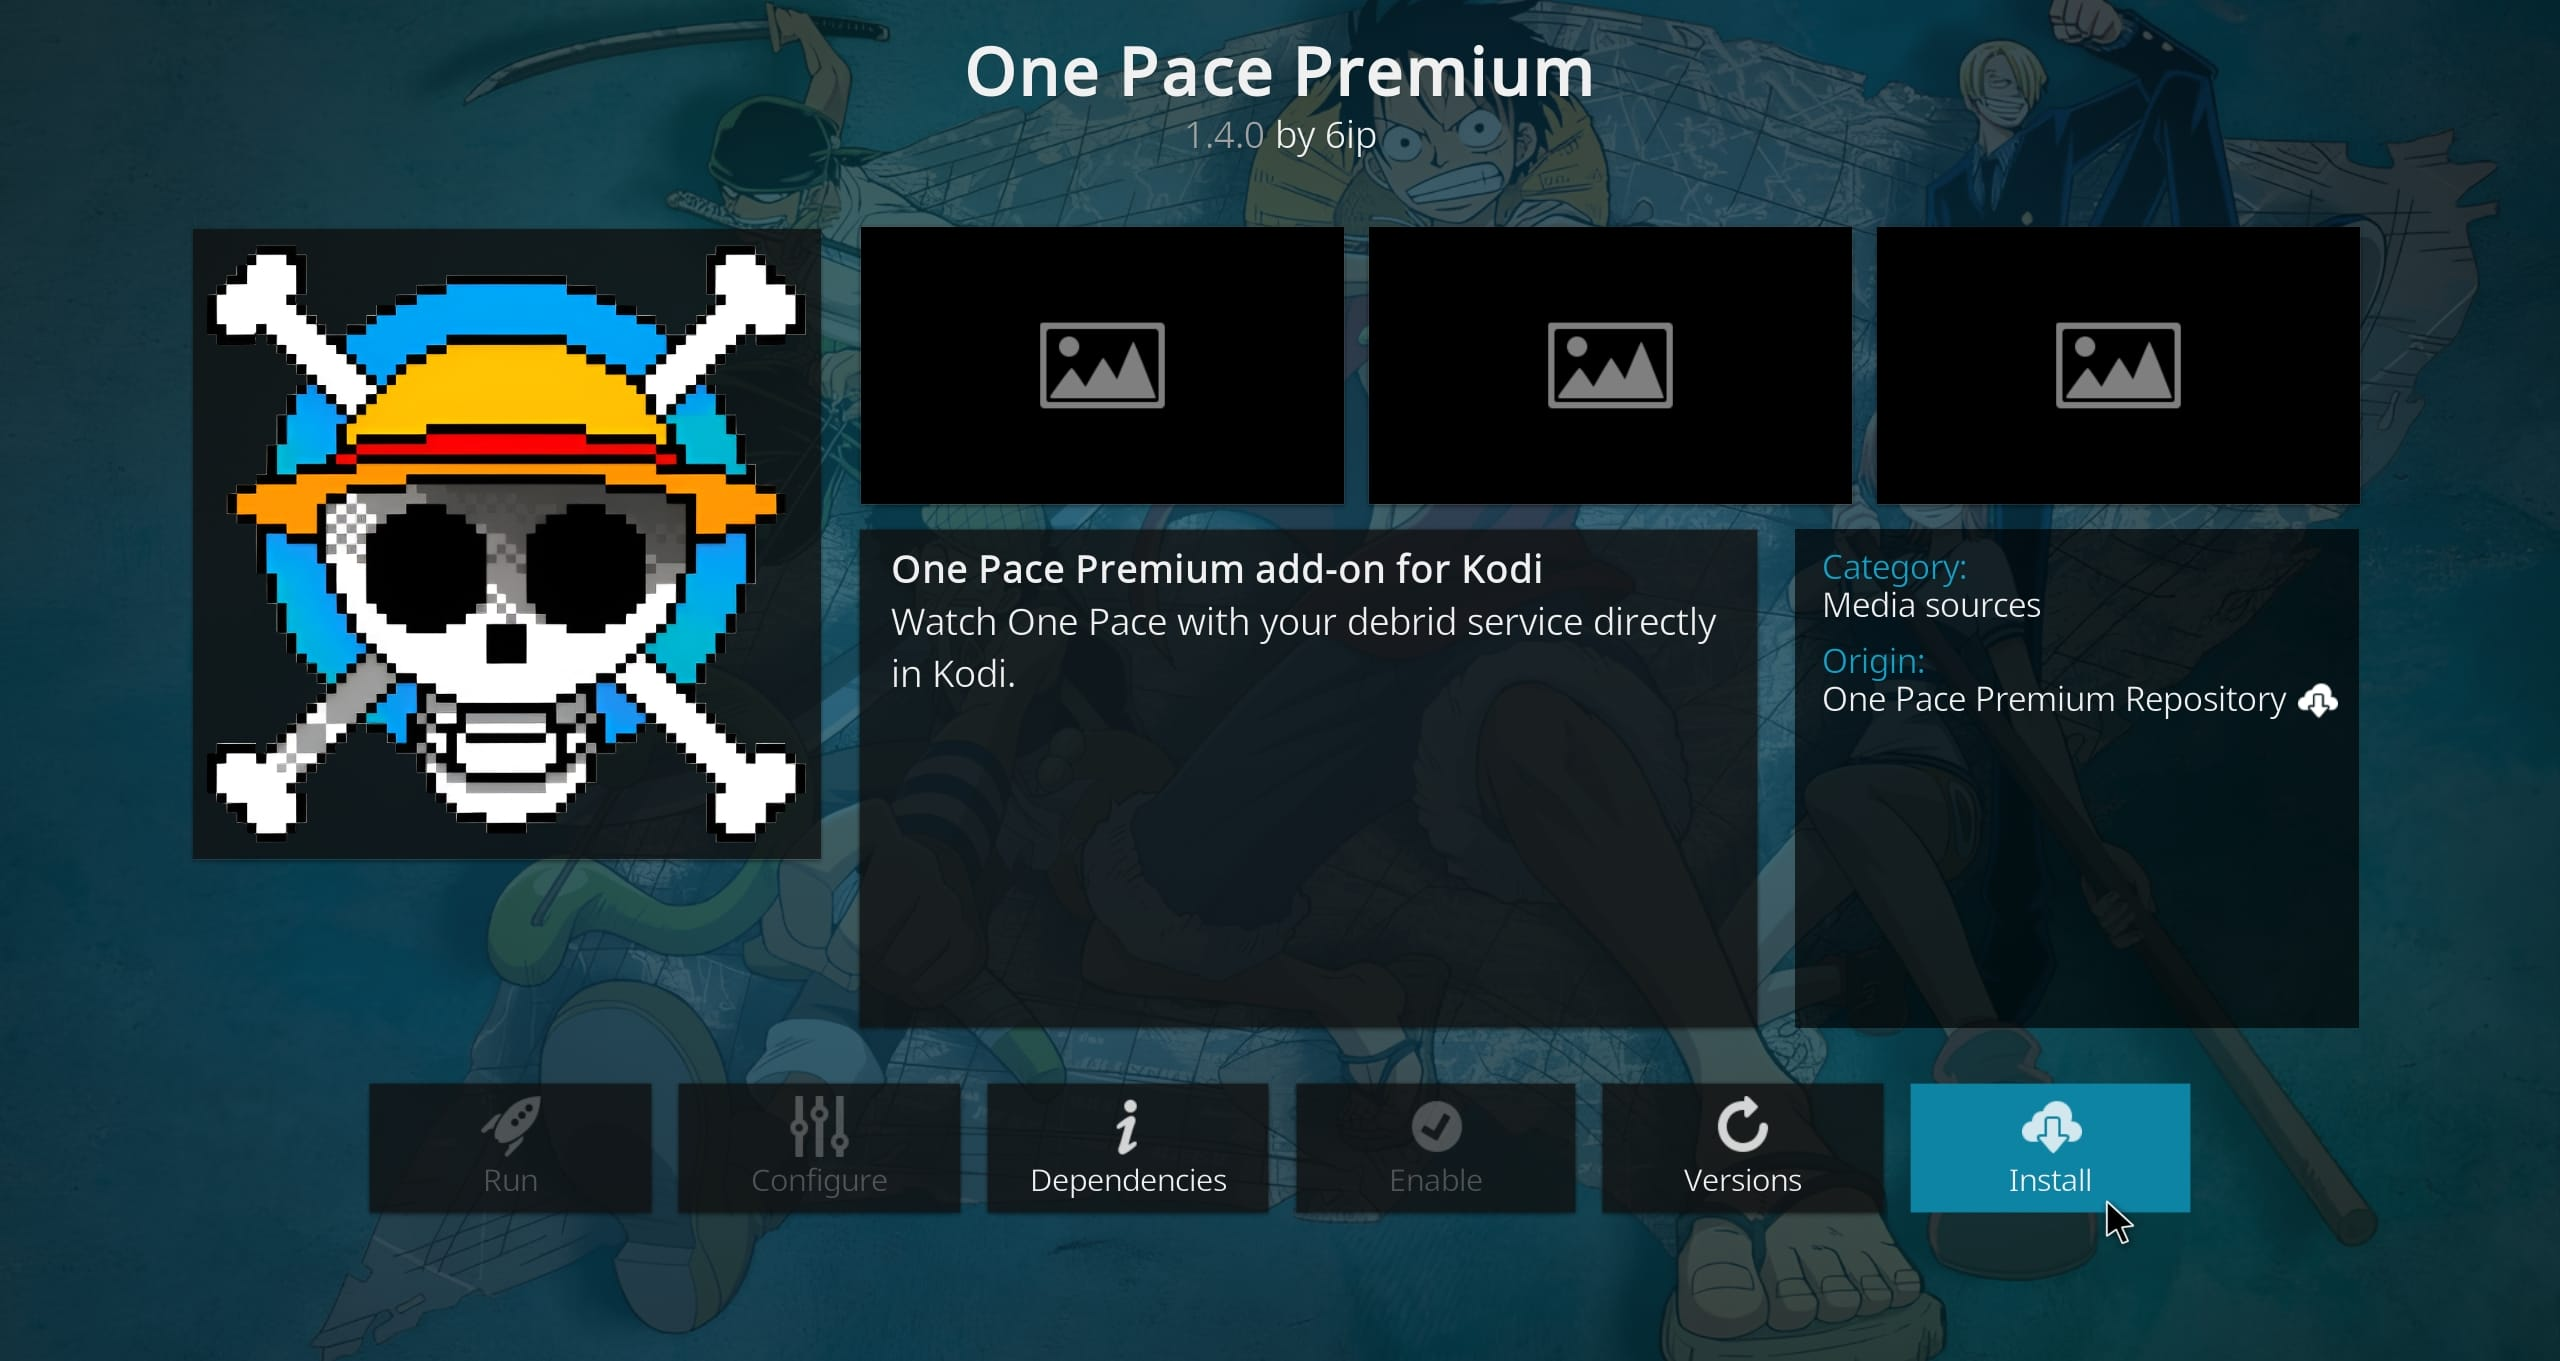
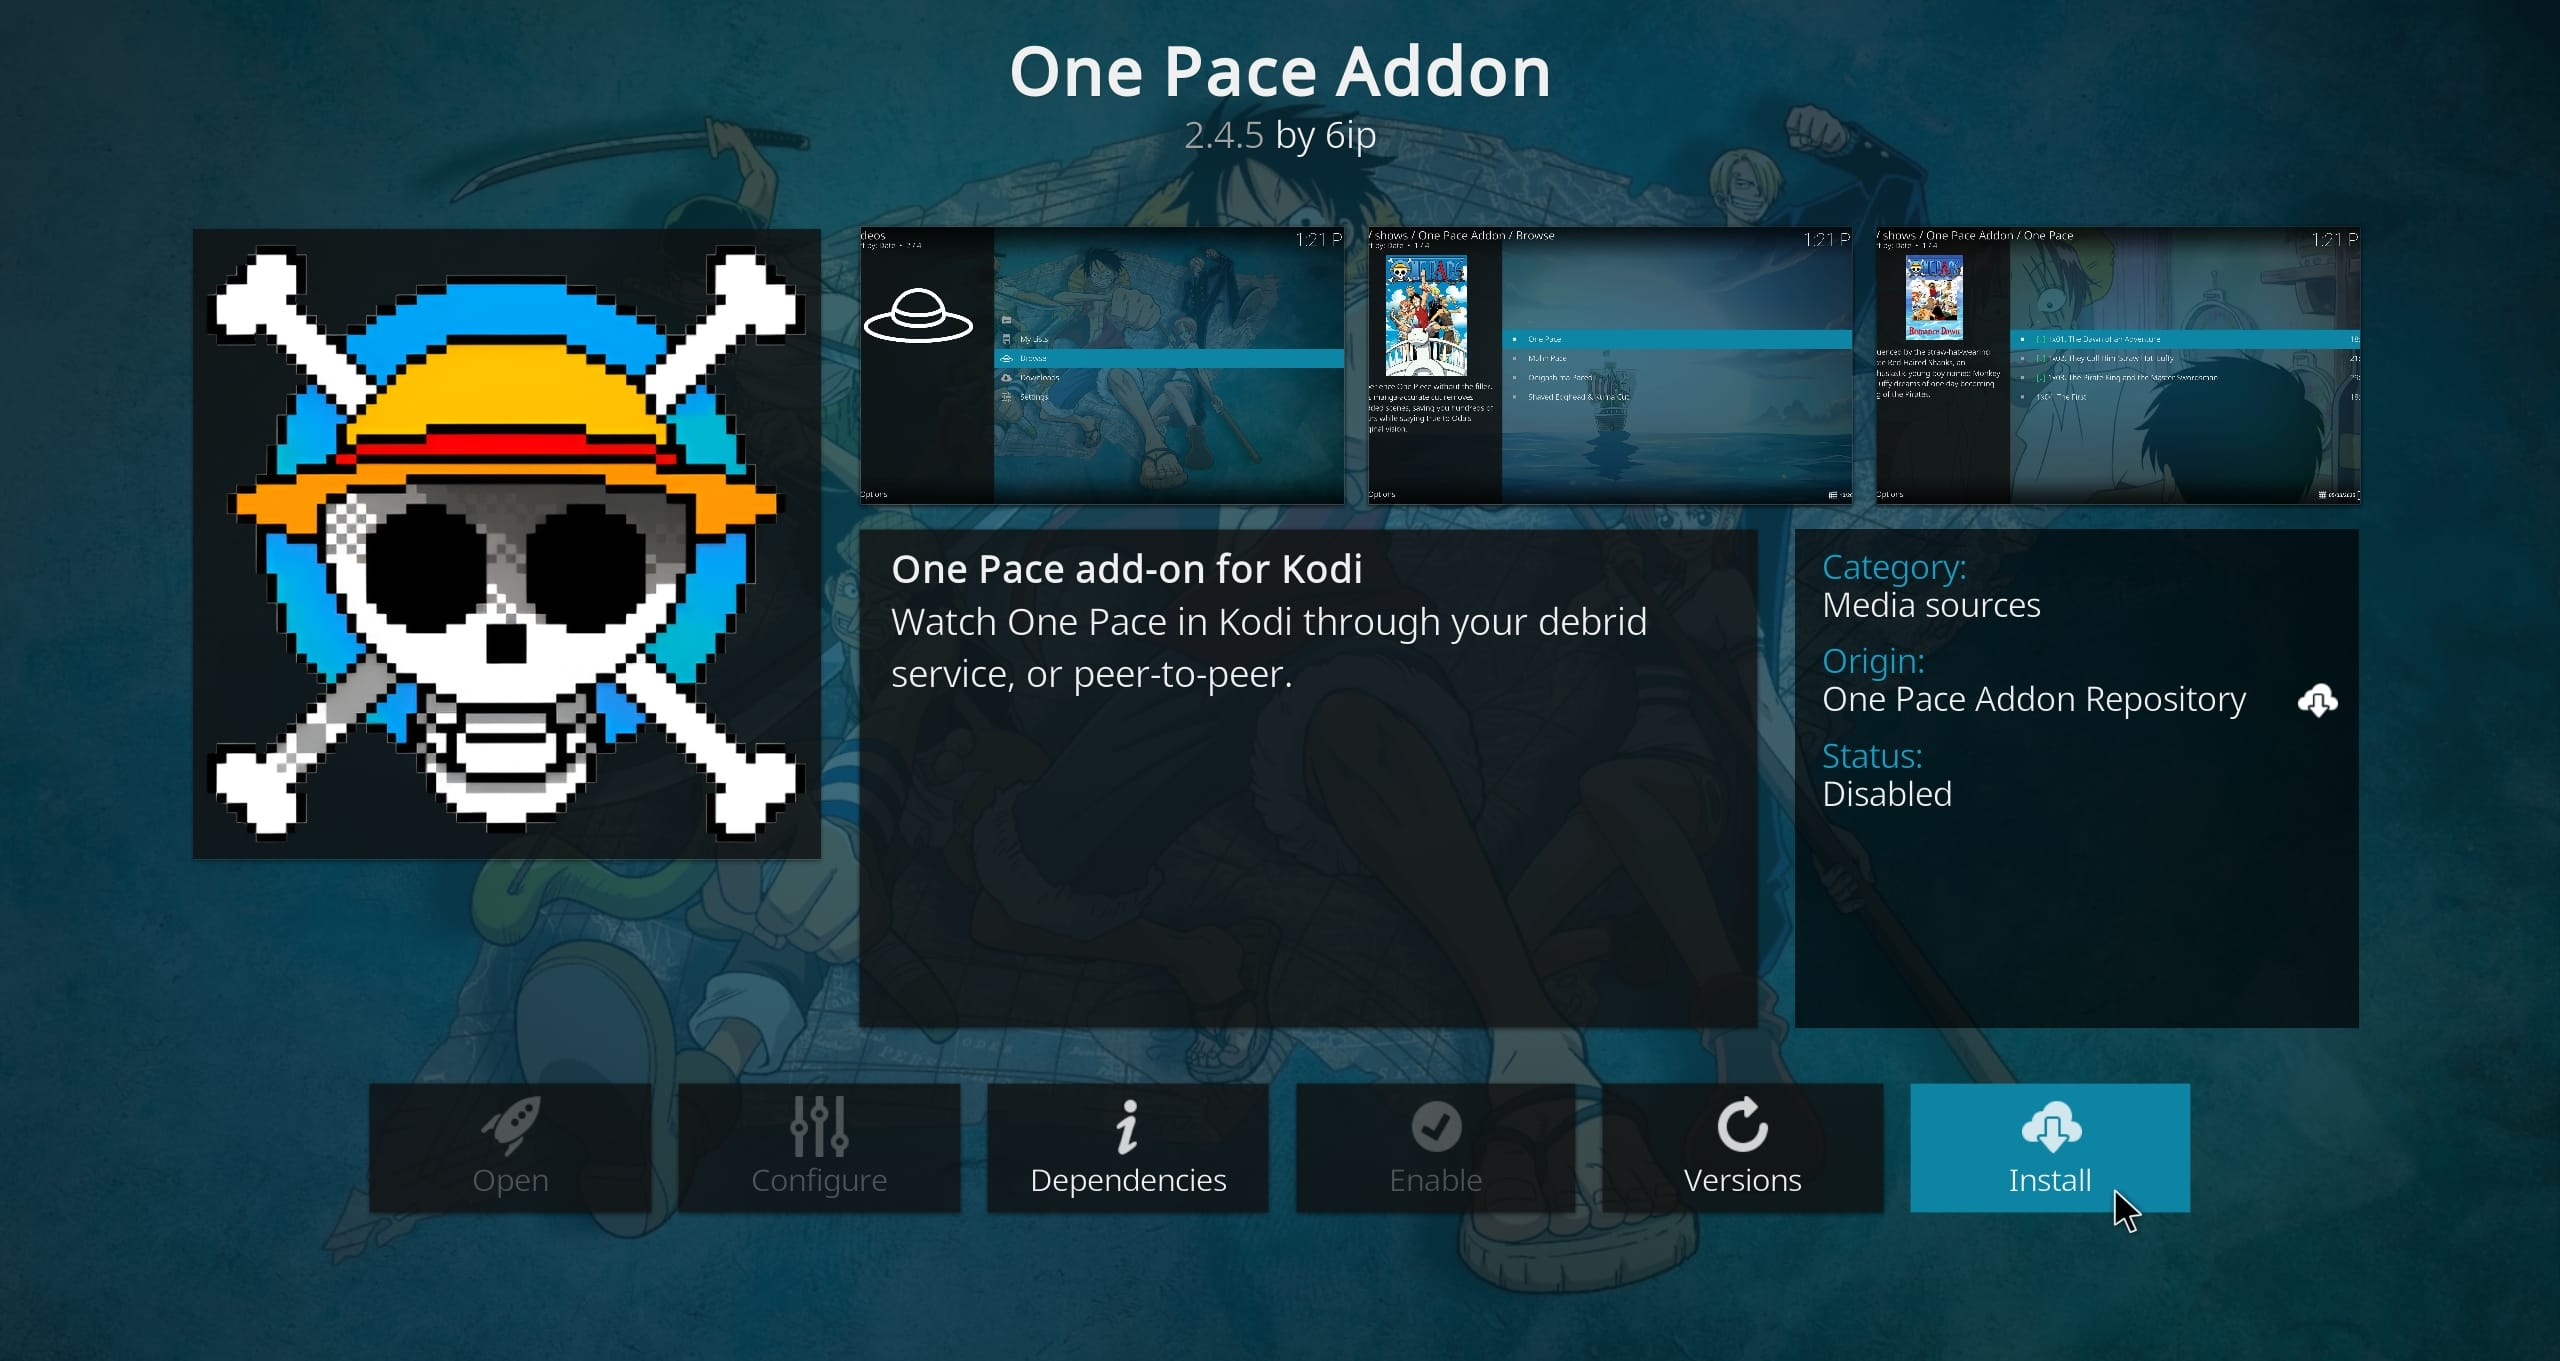
Update README and steps guide

diff --git a/README.md b/README.md
@@ -1,6 +1,6 @@
 # 🎌 One Pace Addon — Kodi Add-on
 
-Kodi plugin (`plugin.video.onepacepremium`) and its update repository (`repository.onepacepremium`). Watch the complete One Pace catalog with your debrid service directly inside Kodi.
+Kodi plugin (`plugin.video.onepacepremium`) and its update repository (`repository.onepacepremium`). Watch the complete One Pace catalog in Kodi through your debrid service, or peer-to-peer.
 
 ## 🚀 Installation (Recommended)
 
@@ -34,7 +34,7 @@ Using the repository ensures you receive automatic updates.
 
 <img src="assets/steps-guide/screenshot00002.jpg" width="900">
 
-**4.** Type `https://6ip.github.io/onepace-premium-kodi/` in the top box and `onepace premium` in the bottom box. Press **OK** to add the source.
+**4.** Type `https://6ip.github.io/onepace-premium-kodi/` in the top box and `One Pace Addon` in the bottom box. Press **OK** to add the source.
 
 <img src="assets/steps-guide/screenshot00003.jpg" width="900">
 
@@ -57,7 +57,7 @@ However, if **Unknown Sources** is **disabled**, you'll see a "Disabled" notific
 - Press **Back**
 - Click **Install from zip file** again
 
-**7.** Now select **onepace premium**.
+**7.** Now select **One Pace Addon**.
 
 <img src="assets/steps-guide/screenshot00006.jpg" width="900">
 
@@ -75,6 +75,8 @@ The repository is now installed. Next, we'll use it to download and install the 
 
 <img src="assets/steps-guide/screenshot00009.jpg" width="900">
 
+> If it fails right after installing the repository, restart Kodi and try again.
+
 **11.** Select **Video add-ons**.
 
 <img src="assets/steps-guide/screenshot00010.jpg" width="900">
@@ -82,8 +84,6 @@ The repository is now installed. Next, we'll use it to download and install the 
 **12.** Now select **One Pace Addon**.
 
 <img src="assets/steps-guide/screenshot00011.jpg" width="900">
-
-> If it fails right after installing the repository, restart Kodi and try again.
 
 **13.** Press the **Install** button.
 
@@ -128,7 +128,7 @@ Once installed, link the add-on to your account:
 
 ## 🧲 Torrent Support (Optional)
 
-Debrid streams work out of the box. Install Elementum only if you also want torrent/P2P sources.
+Debrid streams work out of the box. Elementum is needed for torrent/P2P sources — including when the add-on is left unconfigured, which plays over peer-to-peer.
 
 **[Elementum](https://howtomediacenter.com/en/install-elementum-kodi/)**: An exceptional add-on that offers high-quality streams via torrents.
 
@@ -159,7 +159,9 @@ push to `main` and deploys `dist/` to GitHub Pages.
 ### Build Outputs (`dist/`)
 ```
 dist/
-├── addons.xml + addons.xml.md5
+├── index/
+│   └── addons.xml + addons.xml.md5        # what the repository reads
+├── addons.xml + addons.xml.md5            # kept for repositories already installed
 ├── repository.onepacepremium-X.Y.Z.zip   # what the page links to
 ├── plugin.video.onepacepremium/
 │   ├── addon.xml
